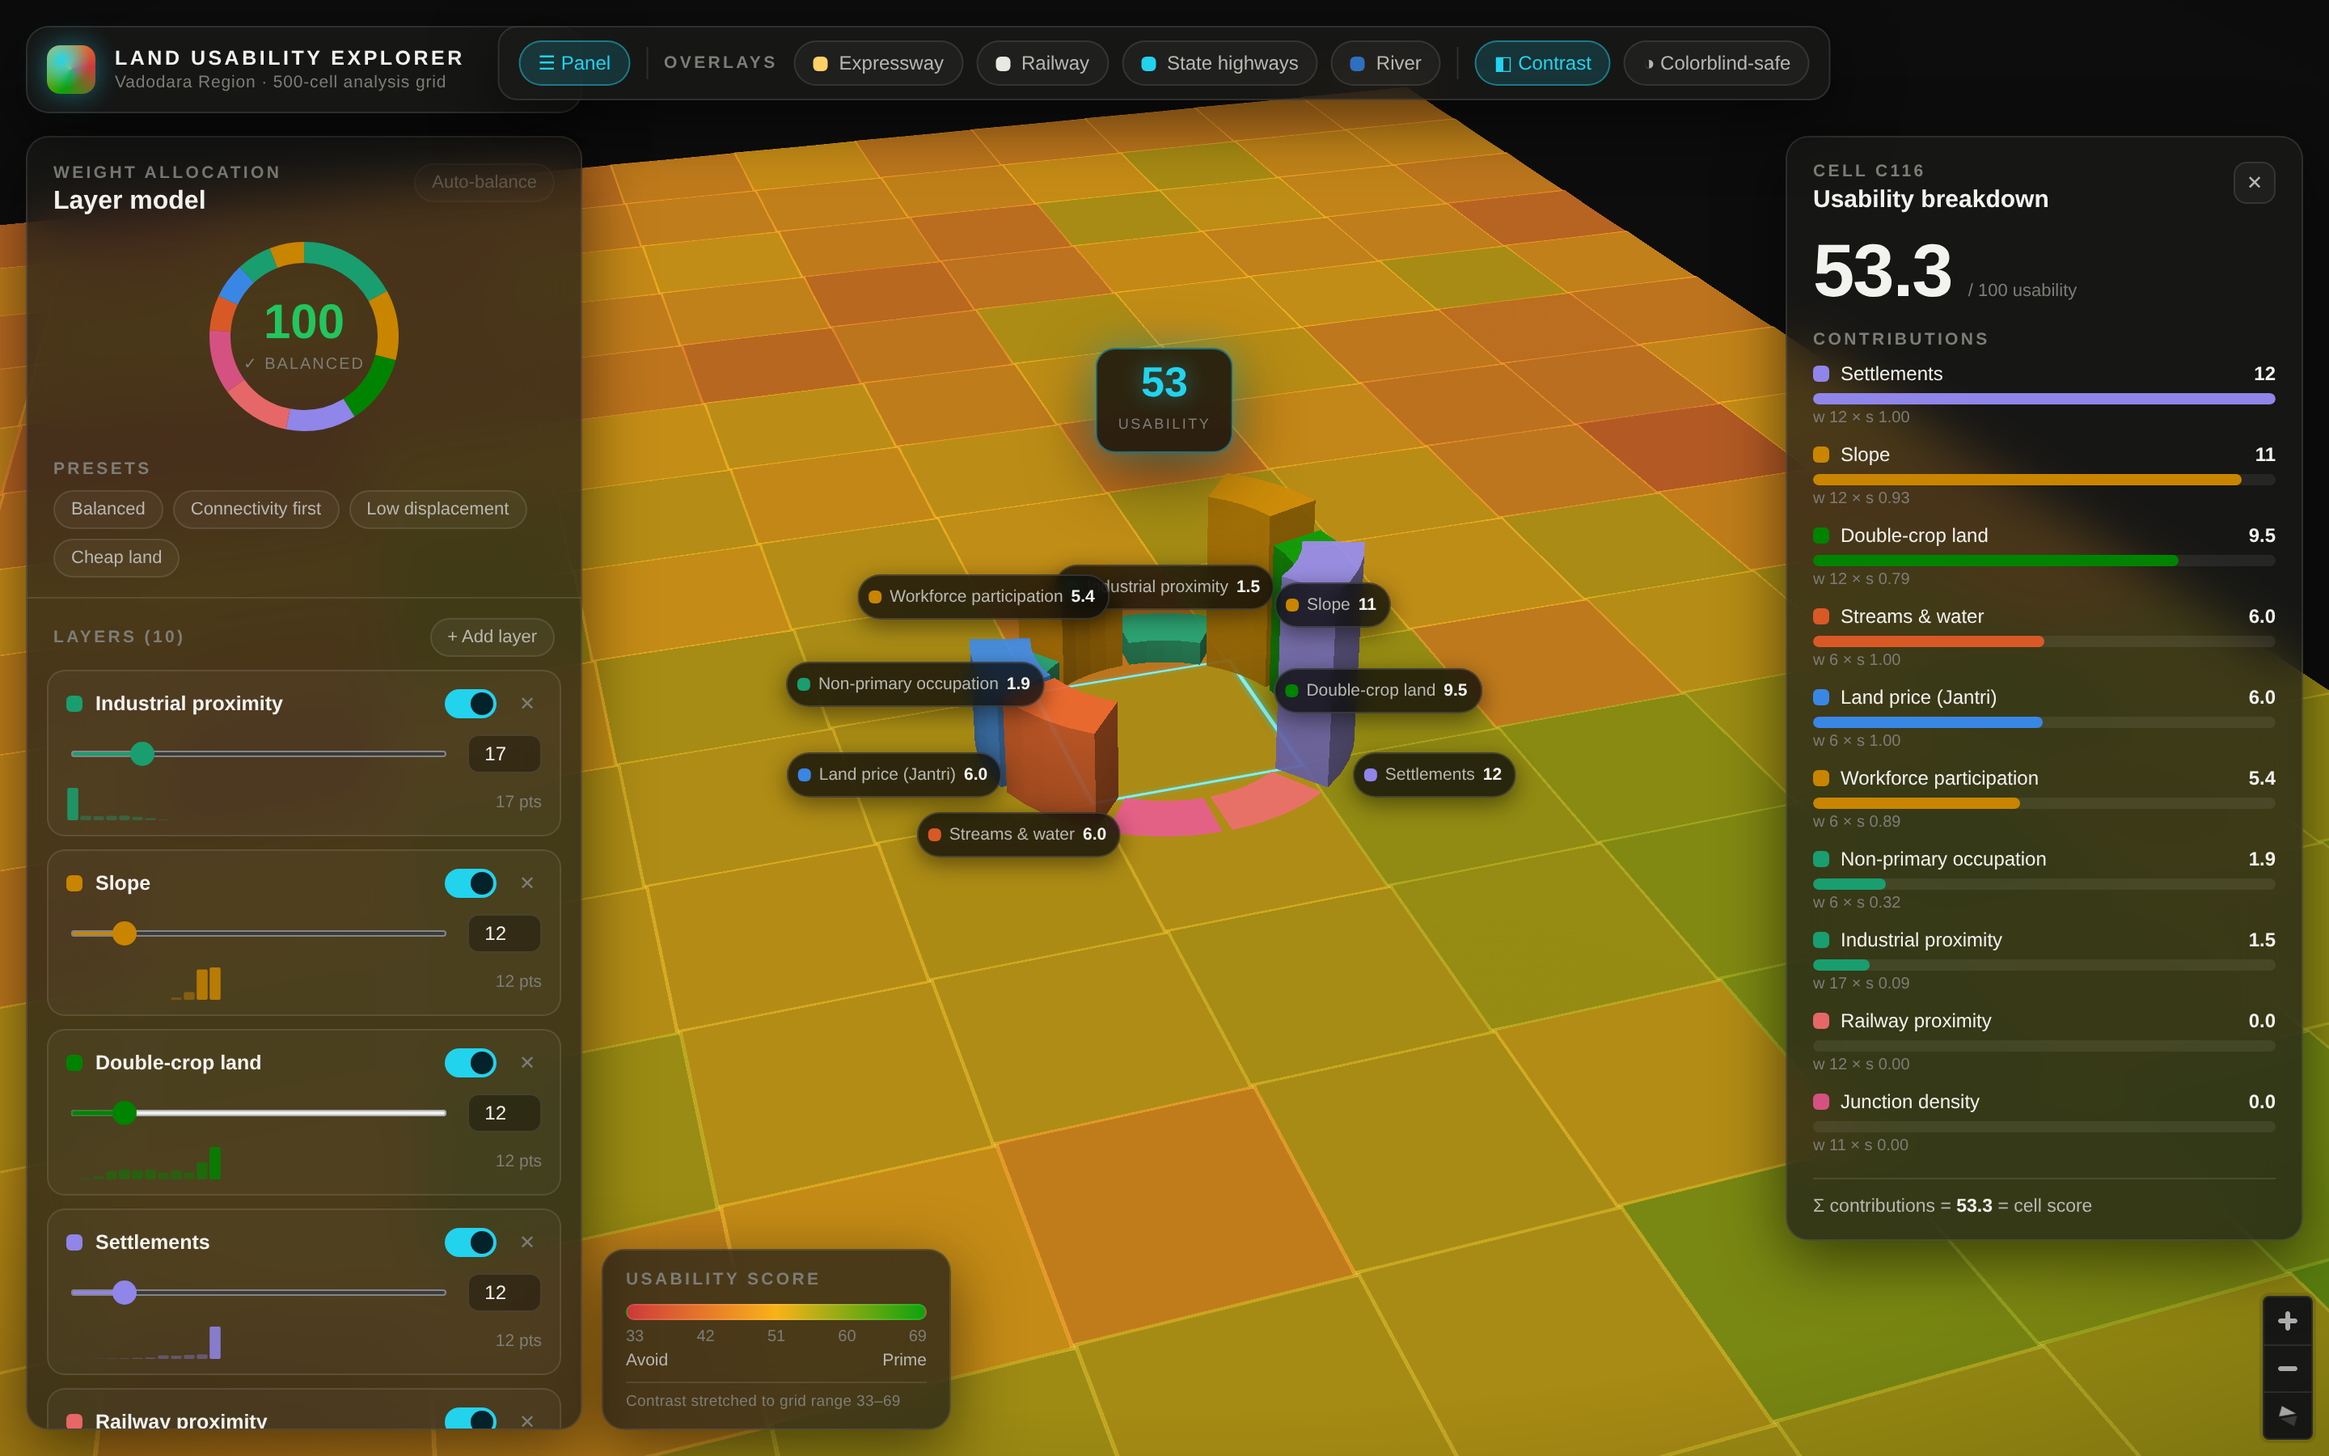
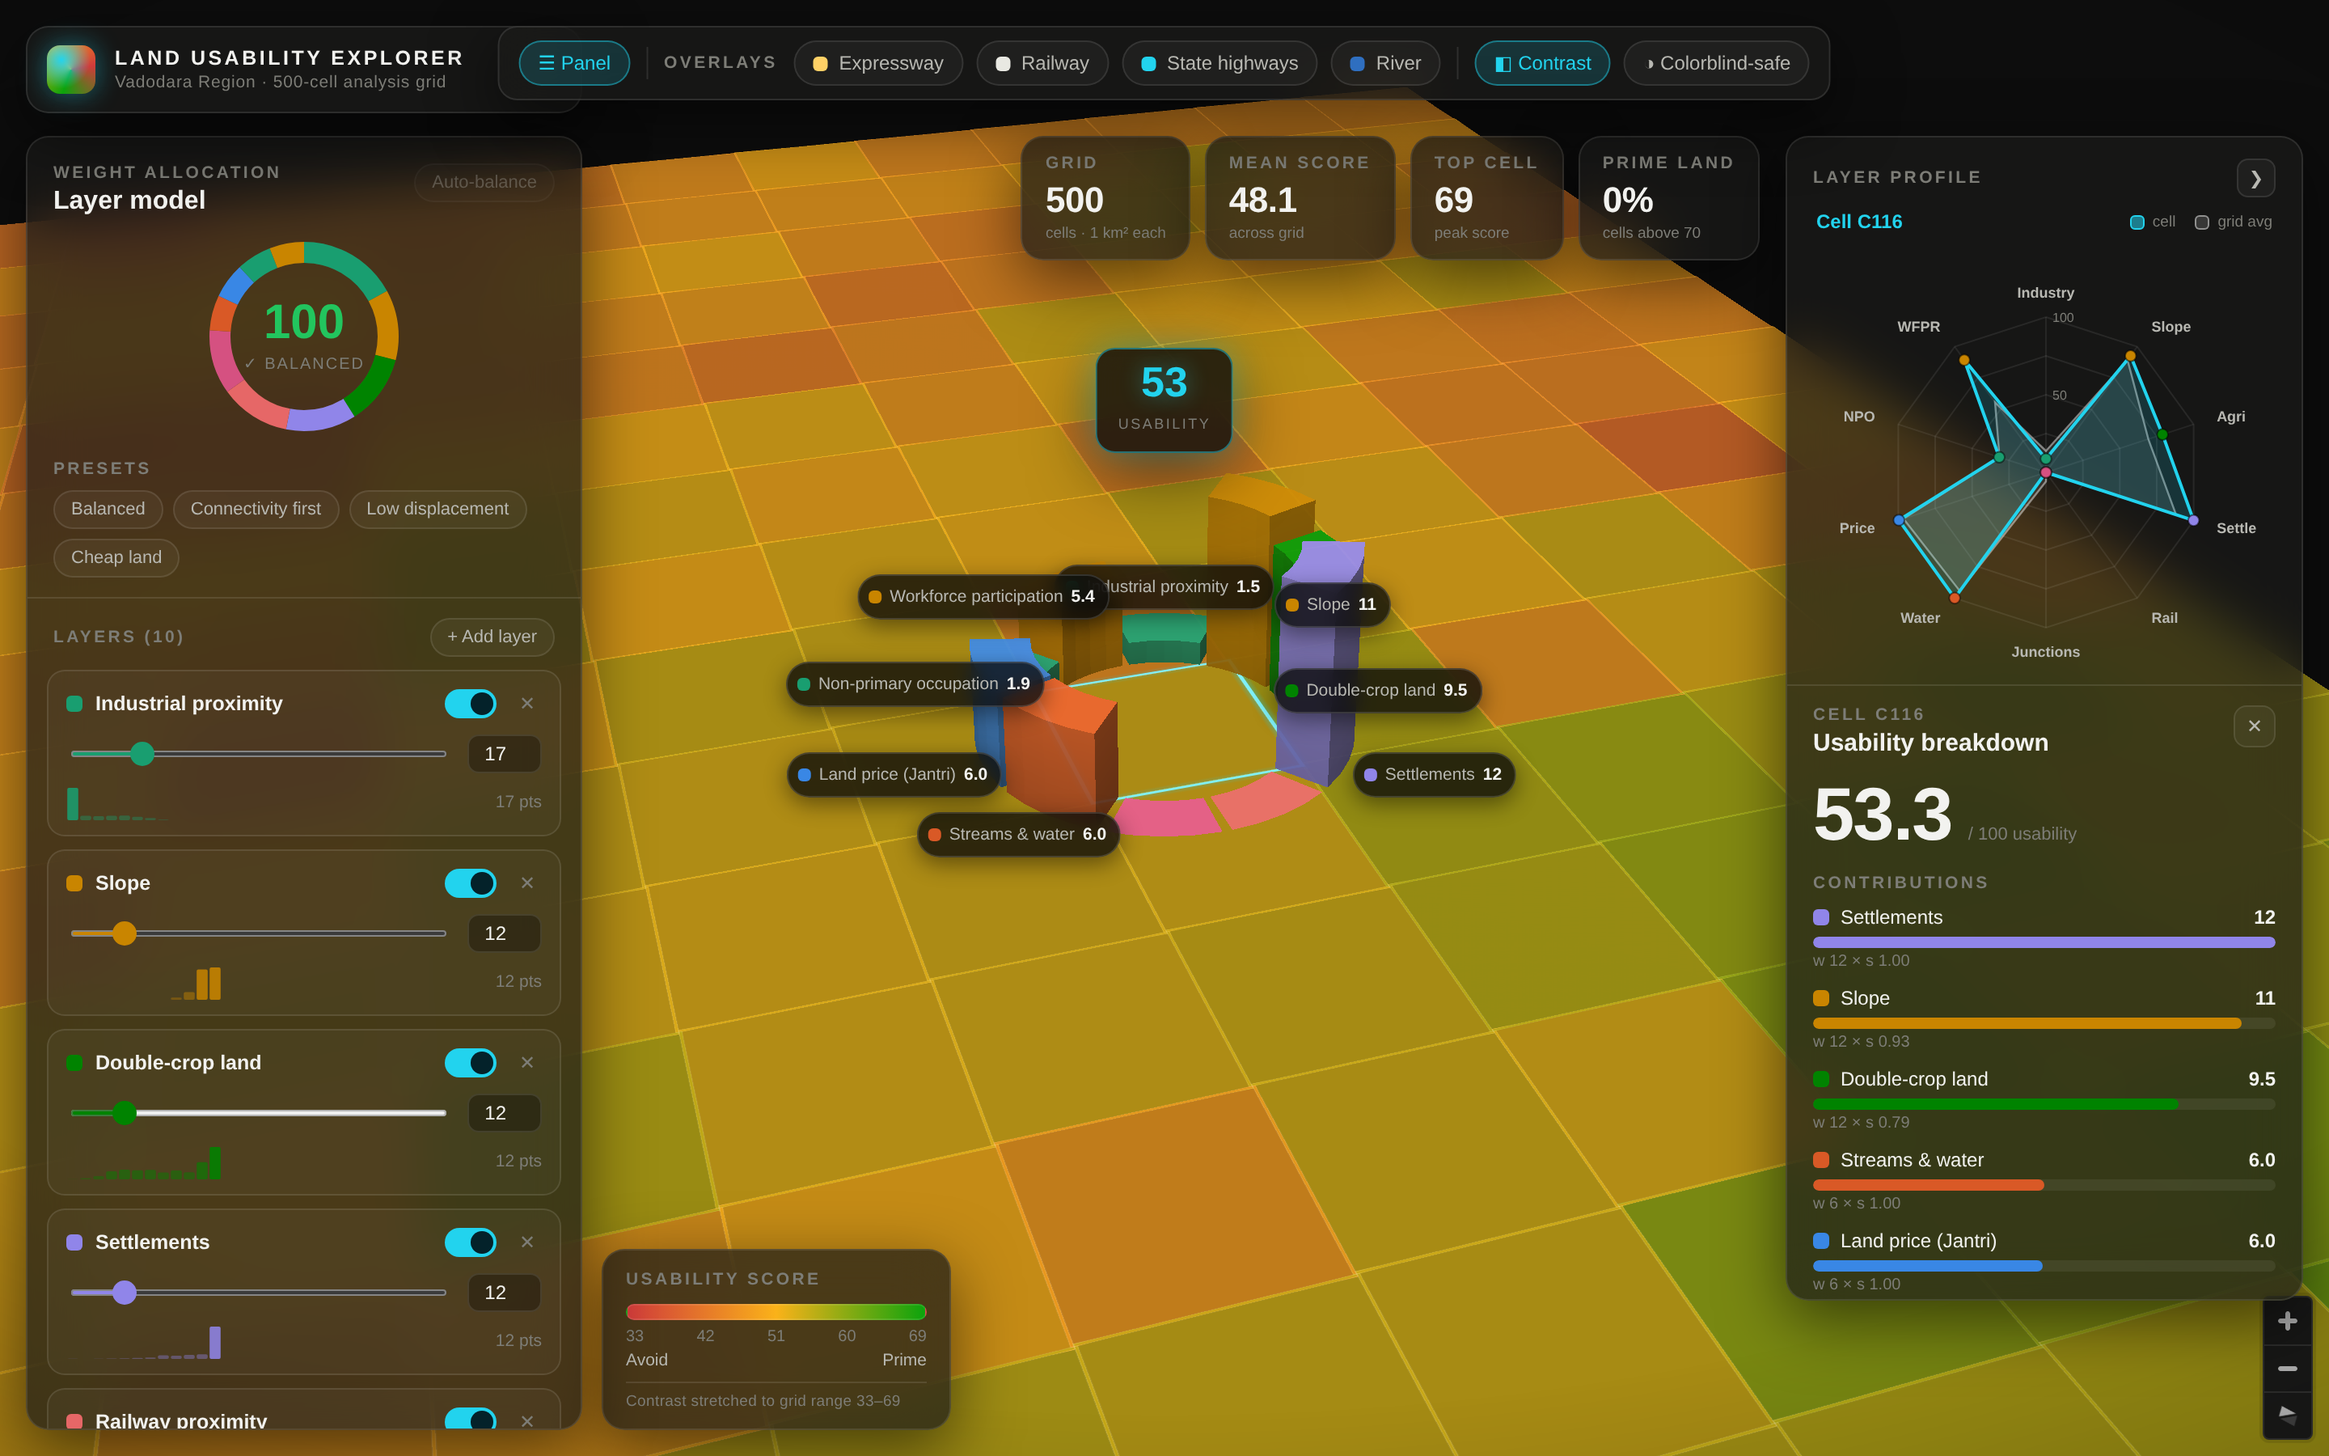
Add context-aware layer-profile radar and collapsible right dock
- New SVG radar chart: grid-average polygon as a persistent baseline with
  the hovered (or selected) cell overlaid as an accent polygon that updates
  live while sweeping the map; layer-colored vertex dots, compact axis
  labels, no-data vertices plotted at the mean and dimmed so gaps never
  read as zeros; needs 3+ enabled layers and adapts as layers change
- Restructure the right side into a collapsible dock: radar on top, full
  usability breakdown below when a cell is selected, hint text otherwise;
  slim edge tab reopens the collapsed dock
- Stat tiles now stay visible alongside the dock and shift with its state

Claude-Session: https://claude.ai/code/session_0156ZkAw48xdA7cb9rmX1sVk

Changed region(s): [[0.75, 0.0933, 1.0, 0.9333], [0.4062, 0.0933, 0.75, 0.2178], [0.9375, 0.1244, 0.9688, 0.1556]]

diff --git a/app/src/components/RadarChart.tsx b/app/src/components/RadarChart.tsx
@@ -1,0 +1,144 @@
+import { useMemo } from 'react';
+import { useAppStore } from '../store/useAppStore';
+
+// Compact axis labels for the radar; falls back to the first word of the
+// catalog name for any layer not listed.
+const SHORT: Record<string, string> = {
+  roads: 'Roads',
+  industrial: 'Industry',
+  slope: 'Slope',
+  doublecrop: 'Agri',
+  settlements: 'Settle',
+  railway: 'Rail',
+  junctions: 'Junctions',
+  streams: 'Water',
+  jantri: 'Price',
+  npo: 'NPO',
+  wfpr: 'WFPR',
+  gidc: 'GIDC',
+};
+
+const SIZE = 288;
+const CX = SIZE / 2;
+const CY = 148;
+const R = 96;
+
+export default function RadarChart() {
+  const layers = useAppStore((s) => s.layers);
+  const scores = useAppStore((s) => s.scores);
+  const grid = useAppStore((s) => s.grid);
+  const catalogById = useAppStore((s) => s.catalogById);
+  const hover = useAppStore((s) => s.hoverCell);
+  const selected = useAppStore((s) => s.selectedCell);
+
+  const enabled = layers.filter((l) => l.enabled);
+
+  // Grid-average raw score per layer (weight-independent).
+  const means = useMemo(() => {
+    const m: Record<string, number> = {};
+    if (!grid) return m;
+    for (const l of layers) {
+      const ls = scores[l.id];
+      let sum = 0, n = 0;
+      for (const c of grid.cells) {
+        const v = ls?.[c.id];
+        if (v != null) { sum += v; n++; }
+      }
+      m[l.id] = n ? sum / n : 0;
+    }
+    return m;
+  }, [grid, scores, layers]);
+
+  if (enabled.length < 3) {
+    return <div className="radar-wrap"><div className="dock-hint">Enable at least 3 layers to see the profile radar.</div></div>;
+  }
+
+  const activeCell = hover ?? selected;
+  const n = enabled.length;
+  const angle = (i: number) => -Math.PI / 2 + (i * 2 * Math.PI) / n;
+  const pt = (i: number, v: number): [number, number] => [
+    CX + Math.cos(angle(i)) * R * v,
+    CY + Math.sin(angle(i)) * R * v,
+  ];
+  const poly = (vals: number[]) => vals.map((v, i) => pt(i, v).join(',')).join(' ');
+
+  const avgVals = enabled.map((l) => means[l.id] ?? 0);
+  // Missing cell data plots at the grid mean (neutral) with a dimmed vertex
+  // dot, so a data gap never reads as a genuine zero.
+  const activeVals = activeCell
+    ? enabled.map((l) => scores[l.id]?.[activeCell] ?? means[l.id] ?? 0)
+    : null;
+  const activeHasData = activeCell
+    ? enabled.map((l) => scores[l.id]?.[activeCell] != null)
+    : null;
+
+  const context = activeCell ? `Cell ${activeCell.toUpperCase()}` : 'Grid average';
+
+  return (
+    <div className="radar-wrap">
+      <div className="radar-sub">
+        <span className="radar-context tnum">{context}</span>
+        {activeCell && (
+          <span className="radar-legend">
+            <span className="rl-swatch cell" /> cell
+            <span className="rl-swatch avg" /> grid avg
+          </span>
+        )}
+      </div>
+      <svg width={SIZE} height={SIZE - 24} viewBox={`0 0 ${SIZE} ${SIZE - 24}`} role="img" aria-label="Per-layer score profile">
+        {/* rings */}
+        {[0.25, 0.5, 0.75, 1].map((t) => (
+          <polygon key={t} points={poly(enabled.map(() => t))}
+            fill="none" stroke="rgba(255,255,255,0.08)" strokeWidth={1} />
+        ))}
+        {/* axes */}
+        {enabled.map((_, i) => {
+          const [x, y] = pt(i, 1);
+          return <line key={i} x1={CX} y1={CY} x2={x} y2={y} stroke="rgba(255,255,255,0.07)" strokeWidth={1} />;
+        })}
+        {/* ring value labels along the top axis */}
+        {[0.5, 1].map((t) => (
+          <text key={t} x={CX + 4} y={CY - R * t + 3} fontSize={8} fill="var(--ink-3)" className="tnum">
+            {Math.round(t * 100)}
+          </text>
+        ))}
+        {/* grid-average polygon */}
+        <polygon points={poly(avgVals)}
+          fill="rgba(255,255,255,0.09)" stroke="rgba(255,255,255,0.45)" strokeWidth={1.2} />
+        {/* active cell polygon */}
+        {activeVals && (
+          <polygon points={poly(activeVals)}
+            fill="rgba(34,211,238,0.16)" stroke="#22d3ee" strokeWidth={2} strokeLinejoin="round" />
+        )}
+        {/* vertex dots, layer-colored */}
+        {activeVals && activeVals.map((v, i) => {
+          const [x, y] = pt(i, v);
+          const def = catalogById[enabled[i].id];
+          return (
+            <circle key={i} cx={x} cy={y} r={3.4}
+              fill={def?.color ?? '#fff'}
+              opacity={activeHasData![i] ? 1 : 0.3}
+              stroke="rgba(0,0,0,0.5)" strokeWidth={1}>
+              <title>{`${def?.name}: ${activeHasData![i] ? Math.round(v * 100) : 'no data'}`}</title>
+            </circle>
+          );
+        })}
+        {/* axis labels */}
+        {enabled.map((l, i) => {
+          const a = angle(i);
+          const [x, y] = [CX + Math.cos(a) * (R + 15), CY + Math.sin(a) * (R + 15)];
+          const anchor = Math.cos(a) > 0.3 ? 'start' : Math.cos(a) < -0.3 ? 'end' : 'middle';
+          const def = catalogById[l.id];
+          const label = SHORT[l.id] ?? def?.name.split(' ')[0] ?? l.id;
+          return (
+            <text key={l.id} x={x} y={y + 3} fontSize={9} fontWeight={600}
+              fill="var(--ink-2)" textAnchor={anchor}>
+              <title>{def?.name}</title>
+              {label}
+            </text>
+          );
+        })}
+      </svg>
+    </div>
+  );
+}

diff --git a/app/src/components.css b/app/src/components.css
@@ -138,8 +138,33 @@
 .picker-item:hover { background: rgba(255,255,255,0.06); }
 .pi-name { flex: 1; }
 
+/* ============ Right dock (radar + inspector) ============ */
+.dock-head {
+  display: flex; align-items: center; justify-content: space-between;
+  padding: 13px 16px 6px;
+}
+.dock-collapse {
+  width: 24px; height: 24px; border-radius: 7px; border: 1px solid var(--hairline);
+  background: rgba(255,255,255,0.04); color: var(--ink-2); font-size: 11px;
+  transition: all 150ms;
+}
+.dock-collapse:hover { border-color: var(--accent-glow); color: var(--accent); }
+.dock-scroll { flex: 1; overflow-y: auto; min-height: 0; border-top: 1px solid var(--hairline); }
+.dock-hint { padding: 14px 16px; font-size: 12px; color: var(--ink-3); line-height: 1.5; }
+
+.radar-wrap { padding: 0 16px 10px; }
+.radar-sub {
+  display: flex; align-items: center; justify-content: space-between;
+  padding: 2px 2px 0;
+}
+.radar-context { font-size: 12px; font-weight: 700; color: var(--accent); }
+.radar-legend { display: flex; align-items: center; gap: 5px; font-size: 9.5px; color: var(--ink-3); }
+.rl-swatch { width: 9px; height: 9px; border-radius: 3px; display: inline-block; }
+.rl-swatch.cell { background: rgba(34,211,238,0.55); border: 1px solid #22d3ee; }
+.rl-swatch.avg { background: rgba(255,255,255,0.14); border: 1px solid rgba(255,255,255,0.45); margin-left: 7px; }
+
 /* ============ Cell inspector ============ */
-.cell-inspector { padding: 15px 16px 14px; overflow-y: auto; }
+.ci-body { padding: 12px 16px 14px; }
 .ci-head { display: flex; align-items: flex-start; justify-content: space-between; }
 .ci-title { font-size: 15px; font-weight: 700; margin-top: 3px; }
 .ci-close {

diff --git a/app/src/components/RightDock.tsx b/app/src/components/RightDock.tsx
@@ -1,0 +1,43 @@
+import { useAppStore } from '../store/useAppStore';
+import RadarChart from './RadarChart';
+import CellInspector from './CellInspector';
+
+// Collapsible right-side panel: layer-profile radar always on top, full
+// cell breakdown below when a cell is selected.
+export default function RightDock() {
+  const open = useAppStore((s) => s.ui.dockOpen);
+  const setUi = useAppStore((s) => s.setUi);
+  const selected = useAppStore((s) => s.selectedCell);
+
+  if (!open) {
+    return (
+      <button className="dock-tab glass" onClick={() => setUi({ dockOpen: true })} title="Open analysis panel">
+        ❮
+      </button>
+    );
+  }
+
+  return (
+    <div className="right-dock glass">
+      <div className="dock-head">
+        <div>
+          <div className="overline">Layer profile</div>
+        </div>
+        <button className="dock-collapse" onClick={() => setUi({ dockOpen: false })} title="Collapse panel">
+          ❯
+        </button>
+      </div>
+      <RadarChart />
+      <div className="dock-scroll">
+        {selected ? (
+          <CellInspector />
+        ) : (
+          <div className="dock-hint">
+            Hover cells to compare their profile against the grid average.
+            Click a cell for its full usability breakdown.
+          </div>
+        )}
+      </div>
+    </div>
+  );
+}

diff --git a/app/src/App.tsx b/app/src/App.tsx
@@ -3,7 +3,7 @@ import { useAppStore } from './store/useAppStore';
 import type { GridData, Scores, LayerDef } from './types';
 import MapView from './components/MapView';
 import ControlPanel from './components/ControlPanel';
-import CellInspector from './components/CellInspector';
+import RightDock from './components/RightDock';
 import Legend from './components/Legend';
 import Toolbar from './components/Toolbar';
 import ErrorBanner from './components/ErrorBanner';
@@ -16,6 +16,7 @@ export default function App() {
   const load = useAppStore((s) => s.load);
   const loaded = useAppStore((s) => s.loaded);
   const panelOpen = useAppStore((s) => s.ui.panelOpen);
+  const dockOpen = useAppStore((s) => s.ui.dockOpen);
   const [err, setErr] = useState<string | null>(null);
 
   useEffect(() => {
@@ -29,7 +30,7 @@ export default function App() {
   }, [load]);
 
   return (
-    <div className={`app-root ${panelOpen ? '' : 'panel-closed'}`}>
+    <div className={`app-root ${panelOpen ? '' : 'panel-closed'} ${dockOpen ? 'dock-open' : 'dock-closed'}`}>
       <MapView />
       {loaded && (
         <>
@@ -46,7 +47,7 @@ export default function App() {
           <ErrorBanner />
           {panelOpen && <ControlPanel />}
           <StatTiles />
-          <CellInspector />
+          <RightDock />
           <Legend />
         </>
       )}

diff --git a/app/src/App.css b/app/src/App.css
@@ -49,15 +49,24 @@
   display: flex; flex-direction: column;
   padding: 0; overflow: hidden;
 }
-.cell-inspector {
-  position: absolute; top: 84px; right: 16px;
-  width: 320px; z-index: 15; max-height: calc(100vh - 210px);
-  display: flex; flex-direction: column;
+.right-dock {
+  position: absolute; top: 84px; right: 16px; bottom: 96px;
+  width: 320px; z-index: 15;
+  display: flex; flex-direction: column; overflow: hidden;
 }
+.dock-tab {
+  position: absolute; right: 0; top: 50%; transform: translateY(-50%);
+  z-index: 15; width: 28px; height: 68px;
+  border-radius: 10px 0 0 10px; border-right: none;
+  display: flex; align-items: center; justify-content: center;
+  color: var(--ink-2); font-size: 12px; transition: color 150ms;
+}
+.dock-tab:hover { color: var(--accent); }
 .stat-tiles {
-  position: absolute; top: 84px; right: 16px; z-index: 12;
+  position: absolute; top: 84px; right: 352px; z-index: 12;
   display: flex; gap: 9px;
 }
+.dock-closed .stat-tiles { right: 56px; }
 .legend { position: absolute; left: 372px; bottom: 16px; z-index: 14; }
 .panel-closed .legend { left: 16px; }
 

diff --git a/app/src/store/useAppStore.ts b/app/src/store/useAppStore.ts
@@ -41,7 +41,7 @@ interface AppState {
   hoverCell: string | null;
 
   overlays: Record<string, boolean>;
-  ui: { basemapLabels: boolean; cvdSafeRamp: boolean; panelOpen: boolean; relativeRamp: boolean };
+  ui: { basemapLabels: boolean; cvdSafeRamp: boolean; panelOpen: boolean; relativeRamp: boolean; dockOpen: boolean };
 
   history: WorkingLayer[][]; // for undo
 
@@ -75,7 +75,7 @@ export const useAppStore = create<AppState>((set) => ({
   selectedCell: null,
   hoverCell: null,
   overlays: { expressway: false, railway: false, statehighway: false, river: false },
-  ui: { basemapLabels: false, cvdSafeRamp: false, panelOpen: true, relativeRamp: true },
+  ui: { basemapLabels: false, cvdSafeRamp: false, panelOpen: true, relativeRamp: true, dockOpen: true },
   history: [],
   activePreset: 'balanced',
 

diff --git a/app/src/components/StatTiles.tsx b/app/src/components/StatTiles.tsx
@@ -6,7 +6,6 @@ export default function StatTiles() {
   const grid = useAppStore((s) => s.grid);
   const layers = useAppStore((s) => s.layers);
   const scores = useAppStore((s) => s.scores);
-  const selected = useAppStore((s) => s.selectedCell);
 
   const stats = useMemo(() => {
     if (!grid) return null;
@@ -25,7 +24,7 @@ export default function StatTiles() {
     };
   }, [grid, layers, scores]);
 
-  if (!stats || selected) return null; // hide when inspector shown (same corner)
+  if (!stats) return null;
   const valid = isValid(layers);
 
   const tiles = [

diff --git a/app/src/components/CellInspector.tsx b/app/src/components/CellInspector.tsx
@@ -16,7 +16,7 @@ export default function CellInspector() {
   const maxContrib = Math.max(0.0001, ...sorted.map((c) => c.contribution));
 
   return (
-    <div className="cell-inspector glass">
+    <div className="ci-body">
       <div className="ci-head">
         <div>
           <div className="overline">Cell {selected.toUpperCase()}</div>
